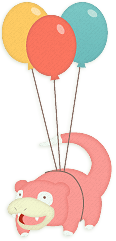
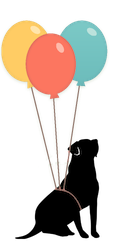
remove unused images, edit a few main page images

diff --git a/base.html b/base.html
@@ -86,50 +86,28 @@
     </ul>
   </nav>
   <div class="moment first" id="zone-beginning">
-<!--     &nbsp;
+    &nbsp;
     <p class="scroll-hint">Scroll down<br>
     <br></p>
-    <p class="right"><strong>Hey!</strong>Nobody had the slightest idea what it would be like, when it all started...</p> -->
+    <p class="right"><strong>About Brittany</strong>Brittany grew up in Harleysville, PA. She is the youngest of 3, with 2 older brothers, Craig and Drew. She attended Corpus Christi Grade School and Lansdale Catholic High School. She went to Temple University, where she majored in Nursing. Brittany graduated with her Bachelors Degree in 2011. She spent nearly 5 years working in medical/surgical nursing. Recently, she started working in the operating room at Cooper University Hospital. </p>
   </div>
 
   <div class="moment" id="zone-meeting">
-<!--     &nbsp;
-    <p class="left"><strong>Oh, that summer 2013</strong>Parties and rock-and-roll every single night <span title="sometimes they did">(when our parents let us)</span>.</p>
-    <div id="the-meeting"></div> -->
+    &nbsp;
+    <p class="left"><strong>About John</strong>John grew up in Harleysville, PA. He is the youngest of 3, with 2 older sisters, Janelle and Kristine. He attended Oak Ridge Elementary School and Lansdale Catholic High School. He went to Penn State University, where he majored in Communications. John graduated with his Bachelors Degree in 2008. After college he worked in the logistics field. Recently, he started working in the computer programming industry. He currently works at the University of Pennsylvania as a software developer. </p>
   </div>
-
-
 
   <div class="moment" id="zone-in-love">
-<!--     &nbsp;
-    <p class="right"><strong>It became clear in autumn that</strong><span title="The winter was coming...">Two can live through the winter with love like this.</span></p>
-    <div class="left" id="lovers"></div> -->
+    &nbsp;
+    <p class="right"><strong>How it all began</strong>Brittany and John met in 2012 while out with friends in Manayunk. After some cheesy pick up lines and a couple hours of talking, they exchanged numbers, and the rest is history. They've been living together for the past few years with their cat and dog, Jax and Piper. After 4+ years of dating, John decided it was time to propose. He picked out a ring and packed it in his carry on for their trip to Las Vegas/California. John proposed at the top of the Eiffel Tower (in Vegas) on May 4, 2016! </p>
+    <div class="left" id="proposal-island"></div>
   </div>
 
+  <div class="moment bad" id="zone-storm"></div>
 
-
-  <div class="moment bad" id="zone-storm">
-<!--     &nbsp;
-    <p class="left"><strong>But not separately in 2009</strong>Lorem Ipsum</p>
-    <p class="right"><strong>That was the moment of silence</strong>We clearly saw we should never be apart.</p>
-    <div class="dark-cloud dark-cloud-1 left"></div>
-    <div class="dark-cloud dark-cloud-2 left"></div>
-    <div class="dark-cloud dark-cloud-3 right"></div>
-    <div class="lightning"></div> -->
-  </div>
-
-
-
-  <div class="moment" id="zone-move-in">
-<!--     <p style="dispay: none;" class="left"><strong>So we moved in instead</strong>To fill the house with love, support and Apple’s computers.</p>
-    <div id="house-island"></div> -->
-  </div>
-
-
+  <div class="moment" id="zone-move-in"></div>
 
   <div class="moment" id="zone-proposal">
-<!--     <p class="right"><strong>One year later, in Thailand</strong>Lorem ipsum</p>
-    <div id="proposal-island"></div> -->
     <ul class="header-ul-bottom mobile">
       <li class="header-li">
         <a href="venue.html">Venue Information</a>
@@ -149,12 +127,10 @@
     </ul>
   </div>
 
-  
   <div class="moment" id="zone-marriage">
-<!--     <p class="left"><strong title="Hint: Lorem Ipsum">You must have already guessed!</strong>Our wedding is taking place on 21st of June 2013. Such great news, yep?;-)</p> -->
-  
-  <!-- <div class="soaring" id="slowpoke"></div> -->
+  <div class="soaring" id="slowpoke"></div>
   </div>
+
   <footer>
     <div id="the-cake"></div>
     <div id="party"></div>
